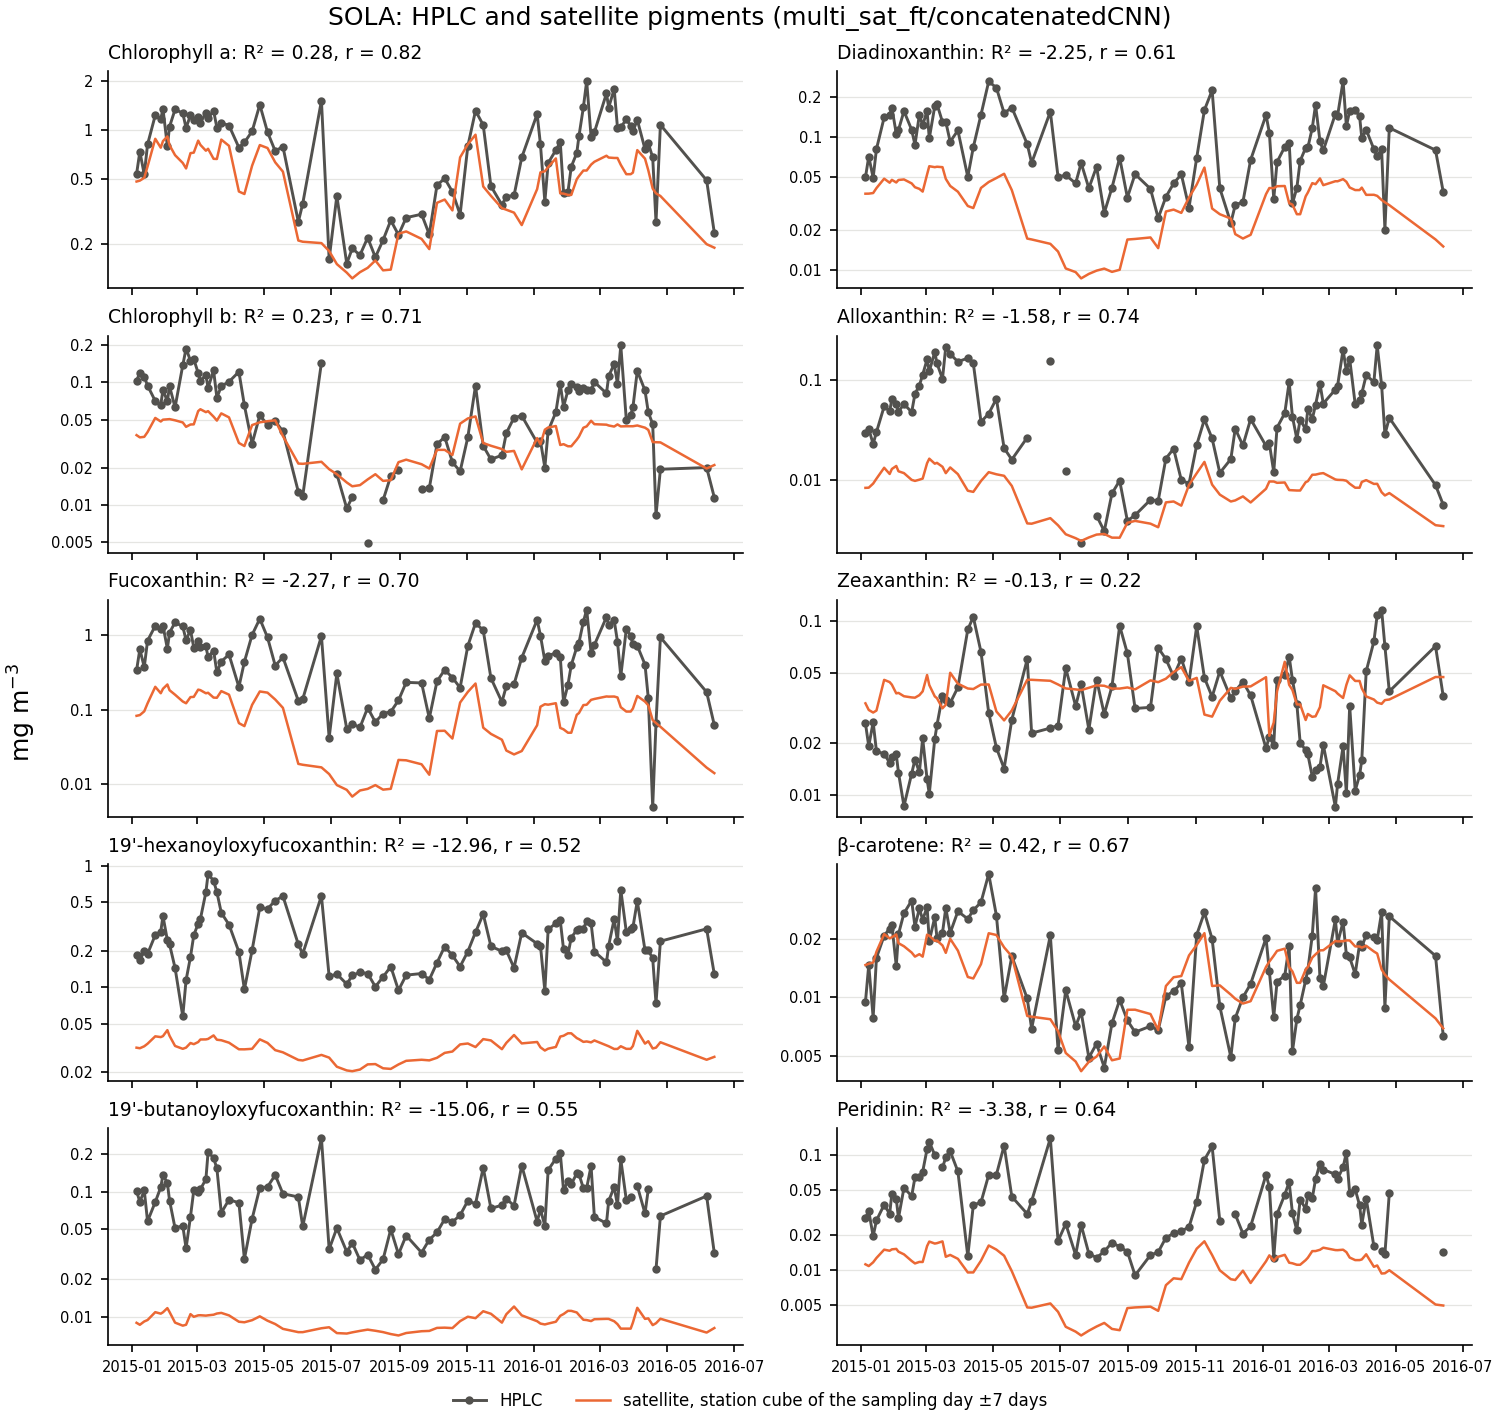
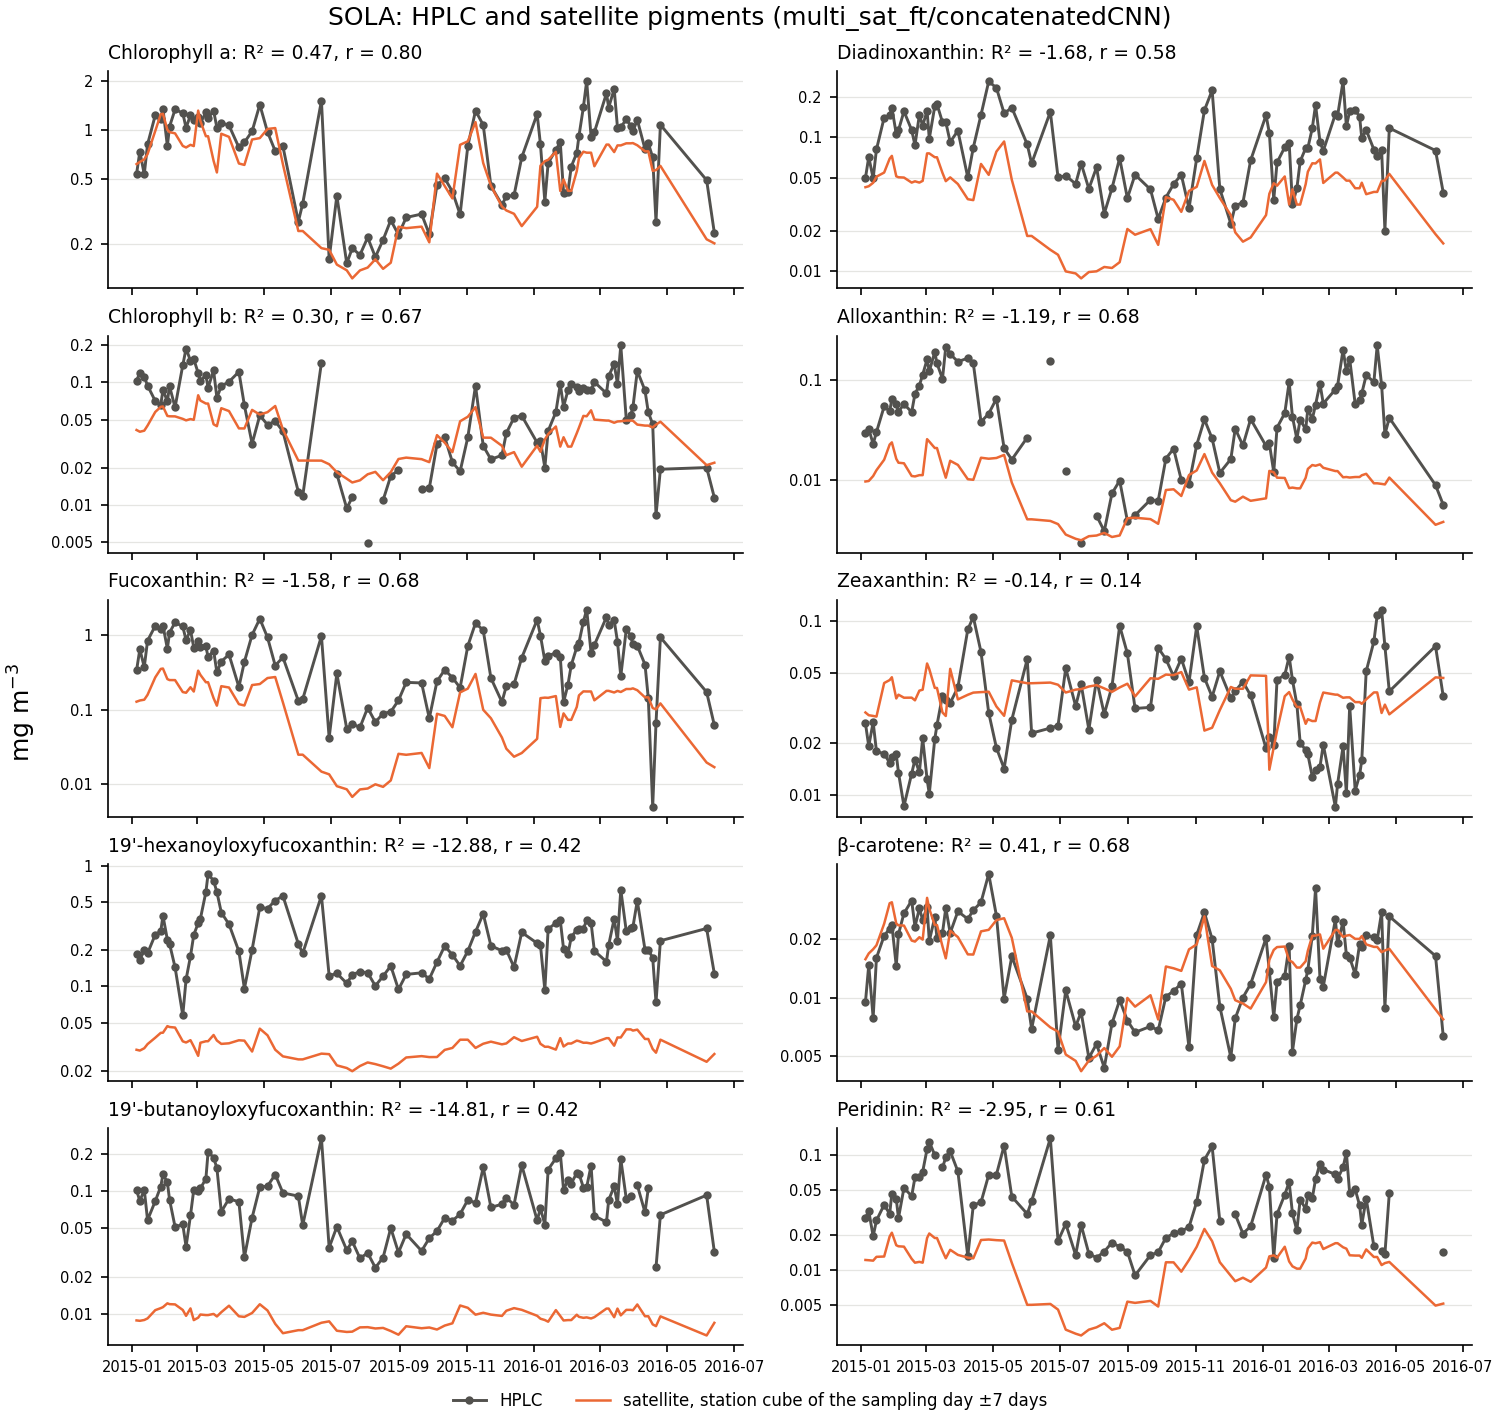
Use station cubes of 5 x 5 pixels

diff --git a/task1/scripts/predict_pigments.py b/task1/scripts/predict_pigments.py
@@ -9,7 +9,7 @@ quantile, so no transform is applied here. Writes to task1/data/pigments:
   pigments on the same (time, latitude, longitude) grid, plus its `valid_days`. Means of one or
   two days can be unrealistic: filter on `valid_days`.
 - stations_daily.nc from the station cubes, task1/data/station_matchups/datasets/optics.nc: the
-  pigments of the 11 x 9 pixels around each station on each day, as (station, time, lat_pixel,
+  pigments of the 5 x 5 pixels around each station on each day, as (station, time, lat_pixel,
   lon_pixel), from the cube's centre day. Pixels without a retrieval that day stay empty.
 """
 from __future__ import annotations

diff --git a/task1/scripts/hplc_check.py b/task1/scripts/hplc_check.py
@@ -3,7 +3,7 @@
     python task1/scripts/hplc_check.py
 
 The Task 2 samples with HPLC pigments (PETRIMED: SOLA, BBMO and MOLA; one per station and date) are
-matched with their station cube of station_matchups.py: the 11 x 9 pixels around the station, from
+matched with their station cube of station_matchups.py: the 5 x 5 pixels around the station, from
 7 days before to 7 days after the sampling day. Each convolutional Task 1 model of the 5
 multi-sensor bands predicts the pigments of every pixel and day with a satellite retrieval, and
 their median is compared with the HPLC pigments, for the 10 pigments of the proposal: R^2 and

diff --git a/task1/README.md b/task1/README.md
@@ -18,7 +18,7 @@ data go to `task1/data/` and the figures to `task1/figures/`, neither kept in gi
 |---|---|---|
 | `nw_mediterranean` | 40.50–43.50 N, 1.50–5.50 E | monthly maps (step 1) |
 | `balearic_islands` | 38.55–40.20 N, 1.10–4.50 E | monthly maps (step 1) |
-| BBMO, SOLA, MOLA, VIDA | 11 × 9 pixels around each station | daily cubes (step 2) |
+| BBMO, SOLA, MOLA, VIDA | 5 × 5 pixels around each station | daily cubes (step 2) |
 
 BBMO is the Blanes Bay Microbial Observatory, SOLA and MOLA the coastal and offshore stations of
 Banyuls-sur-Mer, and VIDA the Vida buoy off Piran, in the Gulf of Trieste.
@@ -38,7 +38,7 @@ and later runs only fetch the newest months.
 
 ## 2. Daily station cubes
 
-A cube around each station for every day of the record (11 × 9 pixels of about 1 km, ±7 days),
+A cube around each station for every day of the record (5 × 5 pixels of about 1 km, ±7 days),
 built with [copernicus-matchup](https://github.com/Kissyfur/copernicus-matchup). Pixels without a
 satellite retrieval stay empty; each band is floored at the 5% quantile of its positive values in
 the cube, then log-transformed:
@@ -72,7 +72,7 @@ also has the `predict-pigments` command of Task 1.
 ## 4. Check against HPLC
 
 The Task 2 samples (PETRIMED: SOLA, BBMO and MOLA, 196 in 2004–2021) have HPLC pigments. Each is
-matched with its station cube of step 2: the 11 × 9 pixels around the station, from 7 days before
+matched with its station cube of step 2: the 5 × 5 pixels around the station, from 7 days before
 to 7 days after the sampling day. The convolutional Task 1 models of the multi-sensor bands predict
 the pigments of every pixel and day with a satellite retrieval, and their median is compared with
 the HPLC pigments, for the 10 pigments of the proposal:
@@ -90,35 +90,46 @@ so it shows whether the satellite pigments rise and fall with the HPLC ones. The
 
 | Pigment | R² | r | MAPE | Bias (MPE) |
 |---|---|---|---|---|
-| Chlorophyll a | 0.33 | 0.78 | 37% | −25% |
-| Chlorophyll b | 0.24 | 0.62 | 73% | +4% |
-| β-carotene | 0.17 | 0.52 | 47% | +4% |
-| Diadinoxanthin | 0.14 | 0.66 | 56% | −23% |
-| Peridinin | 0.14 | 0.46 | 122% | +49% |
-| Alloxanthin | −0.05 | 0.71 | 75% | −29% |
-| Fucoxanthin | −0.16 | 0.76 | 75% | −51% |
-| Zeaxanthin | −0.72 | −0.04 | 402% | +390% |
-| 19'-butanoyloxyfucoxanthin | −1.67 | 0.37 | 66% | −59% |
-| 19'-hexanoyloxyfucoxanthin | −1.75 | 0.45 | 66% | −61% |
+| Chlorophyll a | 0.39 | 0.77 | 35% | −19% |
+| Chlorophyll b | 0.26 | 0.60 | 75% | +11% |
+| Diadinoxanthin | 0.24 | 0.68 | 55% | −18% |
+| β-carotene | 0.20 | 0.55 | 48% | +10% |
+| Peridinin | 0.19 | 0.50 | 122% | +52% |
+| Alloxanthin | 0.05 | 0.72 | 73% | −27% |
+| Fucoxanthin | 0.00 | 0.77 | 78% | −41% |
+| Zeaxanthin | −0.69 | −0.06 | 394% | +379% |
+| 19'-butanoyloxyfucoxanthin | −1.63 | 0.36 | 66% | −58% |
+| 19'-hexanoyloxyfucoxanthin | −1.73 | 0.43 | 66% | −60% |
 
-- R² is at most 0.33, against 0.70–0.93 in situ and about 0.2 less on satellite data in the paper,
-  mostly because of biases: the satellite pigments rise and fall with the HPLC ones (r = 0.62–0.78
+- R² is at most 0.39, against 0.70–0.93 in situ and about 0.2 less on satellite data in the paper,
+  mostly because of biases: the satellite pigments rise and fall with the HPLC ones (r = 0.60–0.77
   for chlorophylls a and b, fucoxanthin, alloxanthin and diadinoxanthin), but fucoxanthin and the
   haptophyte and pelagophyte pigments come out at half the HPLC values or less, and zeaxanthin
   about five times higher. Zeaxanthin barely varies: it stays near 0.04 mg m⁻³.
-- Over time, the satellite pigments follow the timing of the BBMO samples and the seasonal cycle of
-  the weekly SOLA samples of 2015–2016, but not the size of their peaks: in the SOLA blooms,
-  fucoxanthin, the haptophyte and pelagophyte pigments, alloxanthin and peridinin stay several
-  times below the HPLC values.
+- The underestimation is a coastal one and grows with concentration, as the satellite pigments vary
+  less than the HPLC ones. Over time they follow the timing of the BBMO samples and the seasonal
+  cycle of the weekly SOLA samples of 2015–2016, but not the size of their peaks. Fucoxanthin and
+  the haptophyte and pelagophyte pigments come out at 13–21% of the HPLC values at SOLA, where the
+  2015–2016 blooms give the highest values, and at 40–51% at BBMO. Offshore at MOLA (7 samples)
+  most pigments are within about a third of HPLC.
+- A bias by the same factor at all times would not change trends in % per decade or seasonal
+  timing, the measures of Task 4. But the satellite pigments also vary less than the HPLC ones, so
+  trends and seasonal amplitudes are damped, though their sign and timing hold, and the composition
+  is distorted, which Task 2 corrects before using the pigments. A calibration
+  against HPLC would correct chlorophylls a and b at other stations (a factor fitted at BBMO raises
+  the R² of chlorophyll a at SOLA from 0.47 to 0.60), but not the other pigments, whose bias
+  depends on the site; it is not applied, as the project applies the published models as they are.
 - Of the five CNNs, the one of the record, fine-tuned with satellite matchups, has the best median
-  R² (0.05, against −0.28 to −0.09) and is the best for chlorophylls a and b and fucoxanthin. The
-  others do better for 19'-hexanoyloxyfucoxanthin (r = 0.64–0.65 for three of them, against 0.45)
+  R² (0.12, against −0.22 to −0.06) and is the best for chlorophylls a and b and fucoxanthin. The
+  others do better for 19'-hexanoyloxyfucoxanthin (r = 0.58–0.60 for three of them, against 0.43)
   and peridinin, and none for zeaxanthin.
-- The window, sampling day ±7 days, was the best of those tried (the tests are not kept). The
-  sampling day alone matches only 92 samples, and agrees less with HPLC: daily retrievals are noisy.
-  Larger areas, up to about 30 km, add offshore water, with less chlorophyll than the stations. The
-  3 × 3 pixels and ±1 day of the global 4 km product with which the model was fine-tuned
-  overestimate chlorophyll a by about 60% next to the coast.
+- The window, 5 × 5 pixels (about 5 km) and the sampling day ±7 days, was the best of those tried
+  (the tests are not kept). With 11 × 9 pixels the median R² is 0.05 and the bias −24%, against
+  0.12 and −18%: the larger area adds offshore water, with less pigment than the coastal stations.
+  3 × 3 pixels reduce the bias a little more but lose 14 samples. The sampling day alone matches
+  only 65 samples and agrees less with HPLC, as daily retrievals are noisy, and the global 4 km
+  product with which the model was fine-tuned overestimates chlorophyll a by about 60% next to the
+  coast.
 
 <p align="center">
   <img src="report/hplc_check.png" width="80%" alt="Satellite against HPLC pigments at SOLA, BBMO and MOLA">
